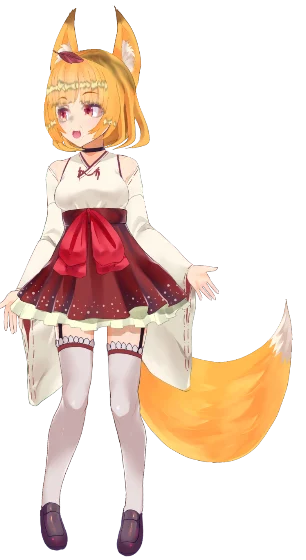
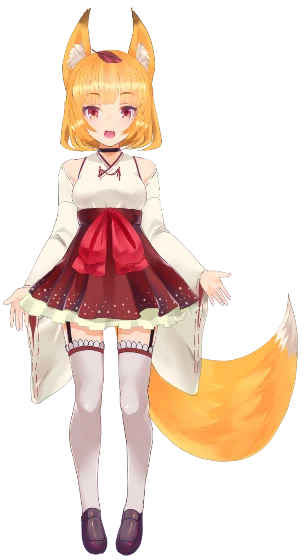
fix(inochi): 公版範例 Aka/Midori 臉髒髒的 — Creator 貼圖已預乘 alpha，不再重複相乘
Inochi Creator 存的貼圖顏色已經乘過 alpha，inochi-full.js 載入時又乘一次，
所有半透明邊緣都變暗：鼻子柔光變灰色塊、嘴唇邊變皺紋、瀏海高光有髒邊。
改成逐張檢查像素，已預乘的原樣上傳，自製模型（直接 alpha）照舊相乘；
縮圖重拍。

diff --git a/inochi-full.js b/inochi-full.js
@@ -38,11 +38,32 @@ export async function loadINP(url, onProgress) {
   for (let i = 0; i < count; i++) {
     const len = dv.getUint32(o); const enc = buf[o + 4]; o += 5;
     if (enc !== 0) throw new Error('TGA textures: re-pack with tools/inx_to_inp.py');
-    // premultiplied bitmaps: WebGL ignores UNPACK_PREMULTIPLY_ALPHA for ImageBitmap sources
-    jobs.push(createImageBitmap(new Blob([buf.slice(o, o + len)], { type: 'image/png' }), { premultiplyAlpha: 'premultiply' }));
+    jobs.push(loadTexture(new Blob([buf.slice(o, o + len)], { type: 'image/png' })));
     o += len;
   }
   return { json, textures: await Promise.all(jobs), bytes: buf.length };
+}
+
+// Inochi Creator stores textures already premultiplied (rgb <= alpha everywhere); our Python-built
+// puppets store straight alpha. Multiplying a premultiplied texture again darkens every soft edge
+// (grey nose shadow, dark lip outline, dirty hair highlights), so look at the pixels and only
+// premultiply straight ones. WebGL ignores UNPACK_PREMULTIPLY_ALPHA for ImageBitmap sources.
+const probe = document.createElement('canvas').getContext('2d', { willReadFrequently: true });
+async function loadTexture(blob) {
+  const raw = await createImageBitmap(blob, { premultiplyAlpha: 'none' });
+  probe.canvas.width = raw.width; probe.canvas.height = raw.height;
+  probe.clearRect(0, 0, raw.width, raw.height); probe.drawImage(raw, 0, 0);
+  const px = probe.getImageData(0, 0, raw.width, raw.height).data;
+  let soft = 0, over = 0;
+  for (let i = 0; i < px.length; i += 4 * 3) {
+    const a = px[i + 3];
+    if (a < 24 || a > 232) continue;                  // low alpha rounds badly through the canvas
+    soft++;
+    if (Math.max(px[i], px[i + 1], px[i + 2]) > a + 6) over++;
+  }
+  if (soft && over / soft < 0.01) { raw.premultiplied = true; return raw; }
+  raw.close();
+  return createImageBitmap(blob, { premultiplyAlpha: 'premultiply' });
 }
 
 // ---- 4x4 column-major matrices (only the x/y rows matter for drawing, z is kept for 3-D rotation) ----
